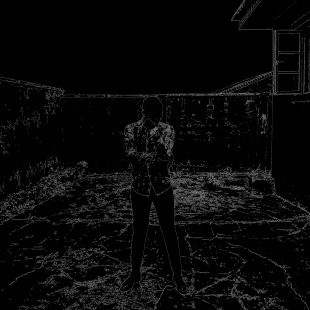
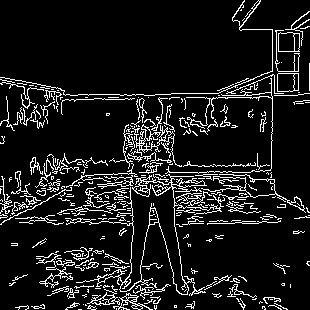
first

diff --git a/opencv/cv_basics.py b/opencv/cv_basics.py
@@ -1,4 +1,5 @@
 import cv2
+import numpy as np
 
 # read image from file
 class Operations:
@@ -51,26 +52,84 @@ class Operations:
         return rotated90
     def canny_edge(self,img):
         img = cv2.imread("josh.jpg")
-        
+        img = self.resize_img(img)
         img_canny = cv2.Canny(img, 100,200)
-        img_canny = self.resize_img(img_canny)
+        print(len(img_canny))
+      
         cv2.imshow("Canny",img_canny)
-        cv2.imwrite("Josh_canny.jpg",img_canny)
+      
         cv2.waitKey(0)
       
         return img_canny
-    def img_canny_vid(self,img):
+    def img_canny_vid(self):
         cap = cv2.VideoCapture(0)
         while True:
             ret,img = cap.read()
             if not ret:
                 break
-            img_canny = cv2.Canny(img,100,200)
-            cv2.imshow("Me",img)
+            # convert BGR to HSV
+            hsv = cv2.cvtColor(img, cv2.COLOR_BGR2HSV)
+            #define range of red color in HSV
+            lower_red =np.array((30,150,50))
+            upper_red = np.array((255,255,150))
+            # create a red HSV colour boundary and    
+            # threshold HSV image   
+            mask = cv2.inRange(hsv,lower_red,upper_red)
+            res = cv2.bitwise_and(img,img,mask=mask)
+            edges = cv2.Canny(img,100,200)
+            cv2.imshow("Me",edges)
             if cv2.waitKey(0)&0XFF==ord('q'):
                 break
         cap.release()
         cv2.destroyAllWindows()
+    
+    def bilateral_filter(self):
+        img = cv2.imread("josh.jpg")
+        img= self.resize_img(img)
+        blur = cv2.bilateralFilter(img,9,95,95)
+ 
+        
+        cv2.imshow("Blur",blur)
+        cv2.waitKey(0)
+    def boxfilter(self):
+        img = cv2.imread("josh.jpg")
+        img = self.resize_img(img)
+        img_1 = cv2.boxFilter(img,0,(5,5),img,(-1,-1),False,cv2.BORDER_DEFAULT)
+        cv2.imshow("BoxFilter",img_1)
+        cv2.waitKey(0)
+
+    def filter2d(self):
+        img= cv2.imread("josh.jpg")
+        img = self.resize_img(img)
+        kernel = np.ones((5,5),np.float32)/25
+        img_1 = cv2.filter2D(img,-1,kernel)
+
+        cv2.imshow("Filter 2D",img_1)
+        cv2.waitKey(0)
+
+    def threshold(self):
+        img = cv2.imread("josh.jpg")
+        img = self.resize_img(img)
+        retval,thres = cv2.threshold(img,62,255, cv2.THRESH_BINARY)
+        cv2.imshow("Threshold",thres)
+        cv2.waitKey(0)
+    def getContour(self):
+        img = cv2.imread("josh_bg.png")
+        #img = self.resize_img(img)
+        img_gray = cv2.cvtColor(img,cv2.COLOR_RGB2GRAY)
+        ret,thes = cv2.threshold(img_gray,127,255,0)
+
+        contour,hierachy = cv2.findContours(thes,cv2.RETR_TREE,cv2.CHAIN_APPROX_SIMPLE)
+
+        cnt = contour[3]
+
+        cv2.drawContours(img,contour,-1,(0,255,0),5)
+
+        cv2.imshow("Img",img)
+        cv2.waitKey(0)
+
+    def adaptive_thresh(self):
+        pass
     def read_image(self,name):
         img=cv2.imread(name,1)
         img= self.resize_img(img)
@@ -91,5 +150,5 @@ class Operations:
 
 run = Operations()
 
-run.canny_edge("josh.jpg")
+run.getContour()
 
